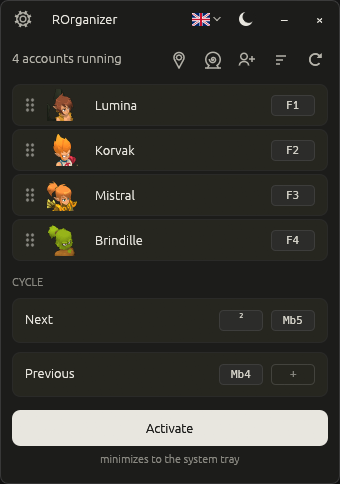
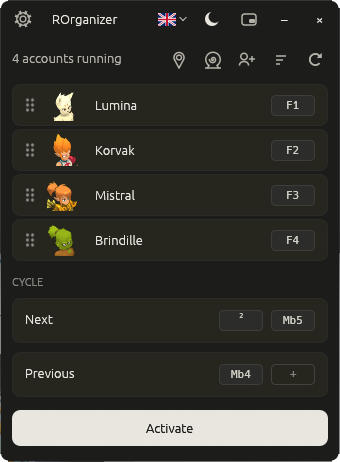
chore: bump 1.6.0
READMEs à jour (mode miniature) et captures refaites : nouveau bouton
dans la barre de titre, plus d'indication sous « Activer ».

diff --git a/SECURITY.md b/SECURITY.md
@@ -14,7 +14,7 @@ Une release contient **un seul fichier** : un exécutable nommé
 `ROrganizer-<version>-x86_64-windows.exe`. Le fork publie deux variantes,
 qui se distinguent par leur numéro de version :
 
-- `ROrganizer-1.5.0-x86_64-windows.exe` : avec les commandes de groupe
+- `ROrganizer-1.6.0-x86_64-windows.exe` : avec les commandes de groupe
   (invitation, zaap, PNJ) ;
 - `ROrganizer-1.4.2-vanilla-x86_64-windows.exe` : sans aucune interaction
   avec le client Dofus.
@@ -44,7 +44,7 @@ Le **SHA256** de chaque fichier publié est affiché par GitHub à côté de
 son nom sur la page de la release. Compare-le au tien :
 
 ```powershell
-Get-FileHash .\ROrganizer-1.5.0-x86_64-windows.exe -Algorithm SHA256
+Get-FileHash .\ROrganizer-1.6.0-x86_64-windows.exe -Algorithm SHA256
 ```
 
 Si les deux ne correspondent pas, le binaire que tu as n'est pas celui
@@ -55,7 +55,7 @@ GitHub, qui le relie de façon cryptographique à ce dépôt, au tag publié et
 au workflow qui l'a compilé. Avec le [GitHub CLI](https://cli.github.com) :
 
 ```powershell
-gh attestation verify .\ROrganizer-1.5.0-x86_64-windows.exe --repo ptuet/ROrganizer
+gh attestation verify .\ROrganizer-1.6.0-x86_64-windows.exe --repo ptuet/ROrganizer
 ```
 
 Une attestation valide prouve que le fichier a été compilé par GitHub
@@ -125,7 +125,7 @@ A release contains **a single file**: an executable named
 `ROrganizer-<version>-x86_64-windows.exe`. The fork publishes two variants,
 told apart by their version number:
 
-- `ROrganizer-1.5.0-x86_64-windows.exe`: with the group commands (invite,
+- `ROrganizer-1.6.0-x86_64-windows.exe`: with the group commands (invite,
   zaap, NPC);
 - `ROrganizer-1.4.2-vanilla-x86_64-windows.exe`: no interaction with the
   Dofus client at all.
@@ -151,7 +151,7 @@ GitHub displays the **SHA256** of every published asset next to its name
 on the release page. Compare it with yours:
 
 ```powershell
-Get-FileHash .\ROrganizer-1.5.0-x86_64-windows.exe -Algorithm SHA256
+Get-FileHash .\ROrganizer-1.6.0-x86_64-windows.exe -Algorithm SHA256
 ```
 
 If they differ, the binary you have is not the one published here —
@@ -162,7 +162,7 @@ cryptographically binding it to this repository, the published tag and
 the workflow that compiled it. Using the [GitHub CLI](https://cli.github.com):
 
 ```powershell
-gh attestation verify .\ROrganizer-1.5.0-x86_64-windows.exe --repo ptuet/ROrganizer
+gh attestation verify .\ROrganizer-1.6.0-x86_64-windows.exe --repo ptuet/ROrganizer
 ```
 
 A valid attestation proves the file was built by GitHub from this

diff --git a/README.md b/README.md
@@ -34,6 +34,7 @@
 | **Inviter tous les comptes en groupe** | ✅ | — |
 | **Envoyer tous les comptes au même zaap** | ✅ | — |
 | **Envoyer tous les comptes vers un PNJ** | ✅ | — |
+| **Mode miniature** avec ces boutons | ✅ | — |
 | Envoie des commandes au jeu | **Oui**, uniquement quand tu cliques sur ces boutons | **Jamais** |
 
 Les deux se téléchargent sur la page [Releases](https://github.com/ptuet/ROrganizer/releases).
@@ -119,6 +120,10 @@ tout.
   groupe fait le trajet (`/travel`) et les autres le suivent (option)
 - ⭐ **Favoris** : jusqu'à 5 zaaps et 5 PNJ épinglés en haut de leur
   liste
+- 🔳 **Mode miniature** : une petite barre avec les boutons PNJ, zaap et
+  invitation, à laisser par-dessus le jeu (option « Toujours au premier
+  plan »). En ligne ou en carré, elle reste où tu l'as posée, et ses
+  points passent au vert quand tes raccourcis sont actifs
 - 🌓 **Thème clair ou sombre**, en FR / EN / ES
 - 📍 **Discret** : réduit dans la barre système, ou dans la barre des
   tâches si tu préfères garder les boutons à un clic (option dans les

diff --git a/README.en.md b/README.en.md
@@ -27,7 +27,8 @@
 > mouse) and adds multi-account features: a second shortcut for
 > next / previous, taskbar sorting, minimizing to the taskbar, and three
 > buttons that **send chat commands to the game** — invite every account
-> into a group, send every account to the same zaap or to an NPC.
+> into a group, send every account to the same zaap or to an NPC — also
+> available in a **mini window** to keep on top of the game.
 >
 > Two builds are published on the [Releases page](https://github.com/ptuet/ROrganizer/releases):
 > `ROrganizer-<version>` with those buttons, and

diff --git a/README.es.md b/README.es.md
@@ -28,7 +28,8 @@
 > siguiente / anterior, ordenar la barra de tareas, minimizar en la barra
 > de tareas, y tres botones que **envían comandos de chat al juego**:
 > invitar a todas las cuentas a un grupo y enviar todas las cuentas al
-> mismo zaap o hacia un PNJ.
+> mismo zaap o hacia un PNJ, también disponibles en una **ventana mini**
+> para dejar encima del juego.
 >
 > Se publican dos versiones en la [página de Releases](https://github.com/ptuet/ROrganizer/releases):
 > `ROrganizer-<versión>` con esos botones, y
